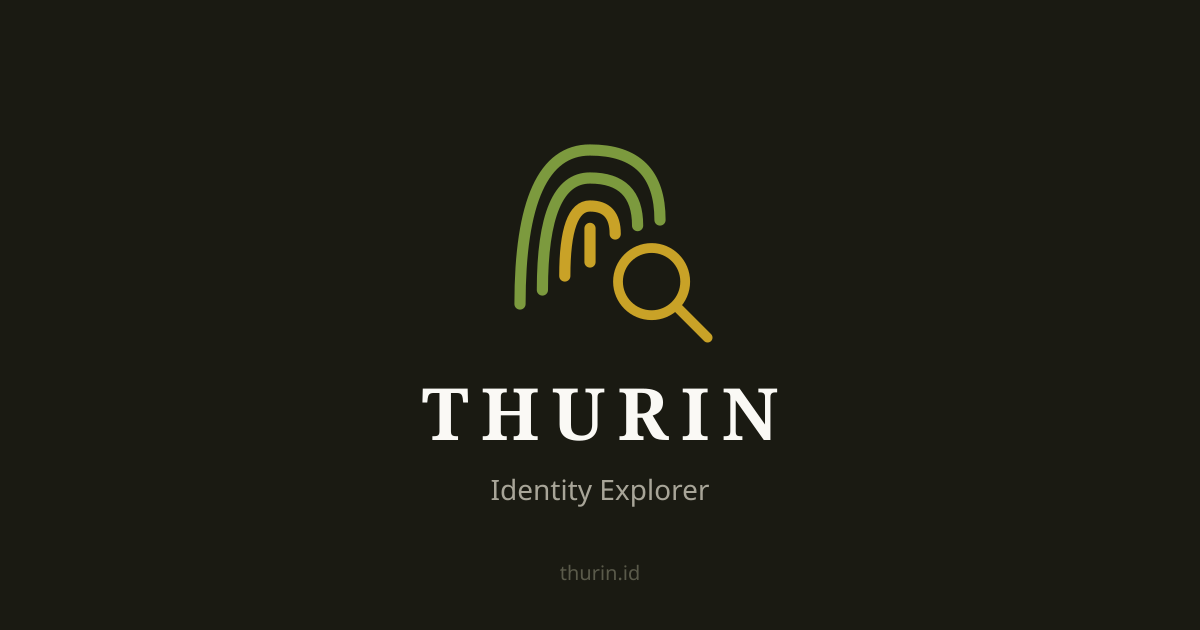
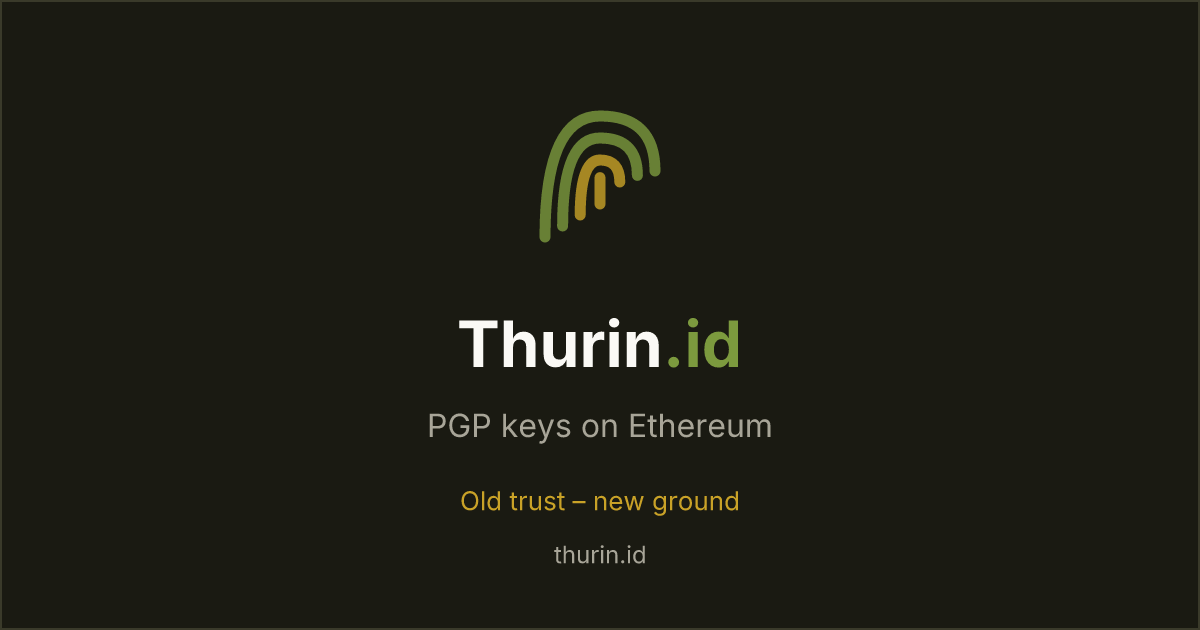
Hero: PGP keys on Ethereum, old trust – new ground; titles and preview image to match

diff --git a/index.html b/index.html
@@ -7,12 +7,12 @@
     <meta name="viewport" content="width=device-width, initial-scale=1.0" />
     <link rel="icon" type="image/svg+xml" href="/favicon.svg" />
     <link rel="canonical" href="https://thurin.id/" />
-    <title>Thurin.id — Prove more. Reveal less.</title>
-    <meta name="description" content="Prove an online identity is really yours. Your PGP key, bound to your Ethereum address on-chain. Look up any ENS name, address, or fingerprint and see the claims and proofs, checked in your browser. No company in the middle." />
+    <title>Thurin.id: PGP keys on Ethereum</title>
+    <meta name="description" content="Look up anyone's PGP key, or put yours on your Ethereum address. Anyone can check it, and none of it depends on us." />
     <!-- Open Graph -->
     <meta property="og:type" content="website" />
-    <meta property="og:title" content="Thurin.id — Prove more. Reveal less." />
-    <meta property="og:description" content="Prove an online identity is really yours. Your PGP key, bound to your Ethereum address on-chain. Look up any ENS name, address, or fingerprint and see the claims and proofs, checked in your browser. No company in the middle." />
+    <meta property="og:title" content="Thurin.id: PGP keys on Ethereum" />
+    <meta property="og:description" content="Look up anyone's PGP key, or put yours on your Ethereum address. Anyone can check it, and none of it depends on us." />
     <meta property="og:url" content="https://thurin.id" />
     <meta property="og:image" content="https://thurin.id/og-image.png" />
     <meta property="og:image:width" content="1200" />
@@ -20,8 +20,8 @@
     <!-- Twitter/X Card -->
     <meta name="twitter:card" content="summary_large_image" />
     <meta name="twitter:site" content="@thurinlabs" />
-    <meta name="twitter:title" content="Thurin.id — Prove more. Reveal less." />
-    <meta name="twitter:description" content="Prove an online identity is really yours. Look up any ENS name, address, or PGP fingerprint." />
+    <meta name="twitter:title" content="Thurin.id: PGP keys on Ethereum" />
+    <meta name="twitter:description" content="Look up anyone's PGP key, or put yours on your Ethereum address. Anyone can check it, and none of it depends on us." />
     <meta name="twitter:image" content="https://thurin.id/og-image.png" />
     <script>
       // Theme key migrated from 'thurin-scry-theme' (pre-0.5.0). Read the old key

diff --git a/src/App.jsx b/src/App.jsx
@@ -1293,12 +1293,10 @@ function Explorer() {
     <>
       {!submitted && (
         <section className="home-hero">
-          <h1 className="home-tagline">Prove more.</h1>
-          <h1 className="home-tagline home-tagline-2">Reveal less.</h1>
+          <h1 className="home-tagline">PGP keys on Ethereum</h1>
+          <h1 className="home-tagline home-tagline-2">Old trust – new ground</h1>
           <p className="home-lede">
-            Prove an online identity is really yours. Your PGP key, bound to your Ethereum
-            address on-chain. Anyone can check it, no company holds it, and nothing about
-            you goes public unless you choose.
+            Look up anyone's key, or add yours. Anyone can check it, and none of it depends on us.
           </p>
         </section>
       )}
@@ -1499,7 +1497,7 @@ export default function App() {
   const links = useMemo(() => siteLinks(), [])
 
   useEffect(() => {
-    document.title = isAttest ? 'Thurin.id — Attest' : 'Thurin.id — Prove more. Reveal less.'
+    document.title = isAttest ? 'Thurin.id: add your key' : 'Thurin.id: PGP keys on Ethereum'
   }, [isAttest])
 
   return (

diff --git a/src/index.css b/src/index.css
@@ -1054,7 +1054,7 @@ a.proof-link:hover {
 
 .home-tagline {
   font-family: var(--heading);
-  font-size: 80px;
+  font-size: 54px;
   font-weight: 700;
   letter-spacing: 0.04em;
   line-height: 1.05;
@@ -1064,6 +1064,7 @@ a.proof-link:hover {
 }
 
 .home-tagline-2 {
+  font-size: 44px;   /* the second line is the smaller one */
   color: var(--color-text);
   animation-delay: 0.3s;
 }
@@ -1320,7 +1321,8 @@ a.proof-link:hover {
 
 @media (max-width: 600px) {
   .home-hero { padding: 36px 0 24px; }
-  .home-tagline { font-size: 44px; }
+  .home-tagline { font-size: 32px; }
+  .home-tagline-2 { font-size: 26px; }
   .home-lede { font-size: 17px; margin-top: 14px; }
   .search-section-home { margin-bottom: 40px; }
   .lookup-preview { padding: 14px 16px 16px; }
